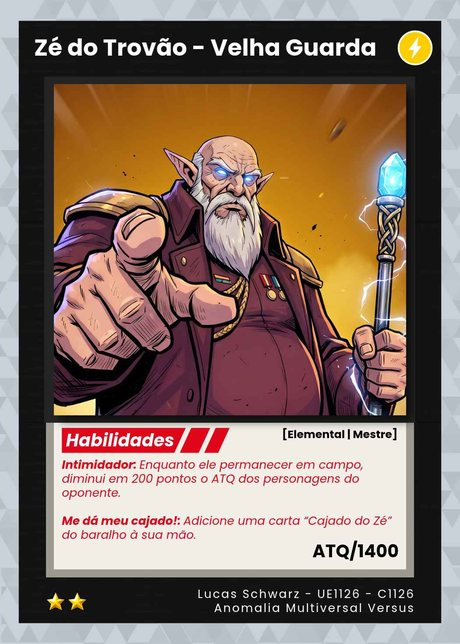
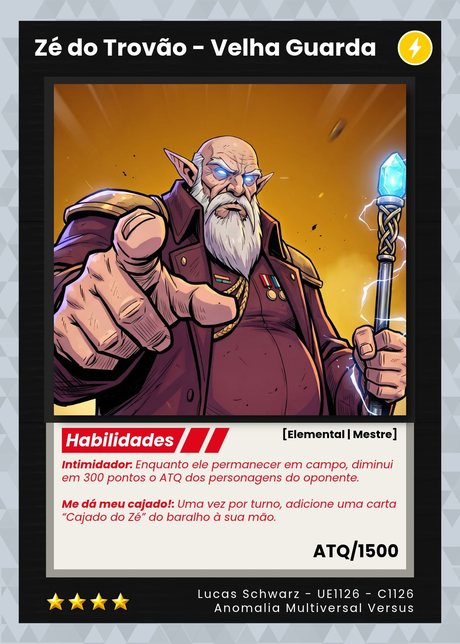
Cartas de fogo (Antares, Blaze Baller, Muhriqa, Napoleão, Tronco Queimado), cartas atualizadas, baralho de 15 a 20, favoritas recortam a própria carta
Claude-Session: https://claude.ai/code/session_01S6Ys4XVKyntY2oeGQp5bPk

Changed region(s): [[0.1217, 0.7143, 0.8522, 0.8696], [0.1826, 0.9006, 0.2739, 0.9627]]

diff --git a/AMV/index.html b/AMV/index.html
@@ -318,6 +318,7 @@ html,body{margin:0;height:100%;background:#050505;overflow:hidden;touch-action:m
 .fire{position:relative;font-style:normal;font-size:44px}.fire em{position:absolute;left:50%;top:58%;transform:translate(-50%,-50%);font-style:normal;font-size:20px;font-weight:900;color:#fff;text-shadow:0 0 4px #000,0 0 2px #000}
 .hfav{position:absolute;left:30px;top:156px;z-index:6;display:grid;grid-template-columns:repeat(3,100px);gap:15px}
 .hf{width:100px;height:100px;border-radius:18px;border:3px solid #fff;background:#000a center/cover;box-shadow:0 6px 16px #000a;cursor:pointer;display:flex;align-items:center;justify-content:center;font-size:48px;color:#fff8}
+.hf.artcrop{background-size:130.6% auto;background-position:50% 28.9%}
 .hf.empty{border-style:dashed;border-color:#fff8}
 .acc b{font-size:38px;white-space:nowrap;overflow:hidden;text-overflow:ellipsis}
 .acc small{display:block;font-size:26px;color:#ffd84d;font-weight:600}
@@ -556,13 +557,13 @@ html,body{margin:0;height:100%;background:#050505;overflow:hidden;touch-action:m
    CONFIGURAÇÃO (fácil de mexer quando suas regras chegarem)
    ============================================================ */
 const MAX_LIFE = 4000;     // vida inicial e máxima
-const DECK_MIN = 20, DECK_MAX = 30, COPY_MAX = 3;
+const DECK_MIN = 15, DECK_MAX = 20, COPY_MAX = 3;
 const HAND_START = 5;      // cartas iniciais
-const DEFAULT_DECK = {31:3,32:3,33:2,34:2,35:1,36:3,21:2,23:1,22:2,24:1,25:1,26:2,27:2,28:1,29:1,30:3};  // 30 cartas
+const DEFAULT_DECK = {31:3,32:3,36:3,33:1,34:1,35:1,26:2,27:2,30:2,29:1,28:1};  // 20 cartas
 const BOT_DECK = DEFAULT_DECK;   // baralho do bot
 
 const DEFS = {   // arquivos com nome, pasta Cartas
-  21:{id:21,name:'Zé do Trovão - Velha Guarda',kind:'char',atk:1400,arq:['Elemental','Mestre'],el:'raio',img:'Cartas/Zé do Trovão - Velha Guarda.jpg'},
+  21:{id:21,name:'Zé do Trovão - Velha Guarda',kind:'char',atk:1500,arq:['Elemental','Mestre'],el:'raio',img:'Cartas/Zé do Trovão - Velha Guarda.jpg'},
   22:{id:22,name:'Cajado do Zé',kind:'tool',img:'Cartas/Ferramenta - Cajado do Zé.jpg'},
   23:{id:23,name:'Sabrina',kind:'char',atk:1300,arq:['Controlador','Máquina'],el:'escuridao',fios:true,troca:true,img:'Cartas/Sabrina.jpg'},
   24:{id:24,name:'Fios invisíveis',kind:'item',img:'Cartas/Item - Fios invisíveis.jpg'},
@@ -574,22 +575,28 @@ const DEFS = {   // arquivos com nome, pasta Cartas
   30:{id:30,name:'Irmãos Ma Mei',kind:'item',img:'Cartas/Item - Irmãos Ma Mei.jpg'},
   31:{id:31,name:'Lee Ma Mei',kind:'char',atk:1400,arq:['Lutador'],el:'agua',img:'Cartas/Lee Ma Mei.jpg'},
   32:{id:32,name:'Mee Ma Mei',kind:'char',atk:1600,arq:['Elemental','Lutador'],el:'agua',img:'Cartas/Mee Ma Mei.jpg'},
-  33:{id:33,name:'Shifu Ma Mei',kind:'char',atk:1700,arq:['Lutador','Mestre'],el:'agua',dsl:true,img:'Cartas/Shifu Ma Mei.jpg'},
+  33:{id:33,name:'Shifu Ma Mei',kind:'char',atk:1800,arq:['Lutador','Mestre'],el:'agua',dsl:true,img:'Cartas/Shifu Ma Mei.jpg'},
   34:{id:34,name:'Shizu Ma Mei - Velha Guarda',kind:'char',atk:800,arq:['Elemental','Mestre'],el:'agua',dsl:true,img:'Cartas/Shizu Ma Mei - Velha Guarda.jpg'},
-  35:{id:35,name:'Taishizu Ma Mei',kind:'char',atk:2000,arq:['Mestre','Lenda'],el:'agua',dsl:true,dslzg:true,img:'Cartas/Taishizu Ma Mei.jpg'},
+  35:{id:35,name:'Taishizu Ma Mei',kind:'char',atk:2200,arq:['Mestre','Lenda'],el:'agua',dsl:true,dslzg:true,img:'Cartas/Taishizu Ma Mei.jpg'},
   36:{id:36,name:'Tee Ma Mei',kind:'char',atk:1300,arq:['Atirador'],el:'agua',img:'Cartas/Tee Ma Mei.jpg'},
-  37:{id:37,name:'Botão de Reset',kind:'char',atk:11000,arq:['Mestre'],el:'raio',first:true,direct:true,img:'Cartas/Botão de Reset.jpg'}
+  37:{id:37,name:'Botão de Reset',kind:'char',atk:11000,arq:['Mestre'],el:'raio',first:true,direct:true,img:'Cartas/Botão de Reset.jpg'},
+  38:{id:38,name:'Antares',kind:'char',atk:3000,arq:['Dragão','Lenda'],el:'fogo',img:'Cartas/Antares.jpg'},
+  39:{id:39,name:'Blaze Baller',kind:'char',atk:1400,arq:['Atirador'],el:'fogo',img:'Cartas/Blaze Baller.jpg'},
+  40:{id:40,name:'Muhriqa - Velha Guarda',kind:'char',atk:1500,arq:['Elemental','Mestre'],el:'fogo',img:'Cartas/Muhriqa - Velha Guarda.jpg'},
+  41:{id:41,name:'Napoleão',kind:'char',atk:1300,arq:['Besta','Líder'],el:'fogo',img:'Cartas/Napoleão.jpg'},
+  42:{id:42,name:'Tronco Queimado',kind:'char',atk:1800,arq:['Planta'],el:'fogo',img:'Cartas/Tronco Queimado.jpg'}
 };
 /* estrelas: 1 a 3 = até 3 cópias, 4 = 1 cópia, 5 = só 1 carta de 5 estrelas no baralho inteiro */
-const STARS={1:2,2:1,3:1,4:2,5:1,6:1,7:2,8:2,9:2,10:1,11:2,12:2,13:3,14:4,15:3,16:3,17:3,18:3,19:3,20:2,21:2,22:3,23:3,24:2,25:4,26:2,27:2,28:4,29:4,30:3,37:5,31:1,32:2,33:3,34:3,35:5,36:2};
+const STARS={1:2,2:1,3:1,4:2,5:1,6:1,7:2,8:2,9:2,10:1,11:2,12:2,13:3,14:4,15:3,16:3,17:3,18:3,19:3,20:2,21:4,22:3,23:4,24:2,25:4,26:2,27:2,28:4,29:4,30:3,37:5,31:1,32:2,33:4,34:4,35:5,36:2,38:5,39:2,40:4,41:3,42:1};   // estrelas = as da carta (não dependem do número de habilidades)
 const maxCopies=id=>{ const st=STARS[id]||1; return st>=4?1:3; };
 const isMaMei=c=>/Ma Mei/.test(c.def.name);
-const DS={31:200,32:300,33:500,36:100};                         // Duplo Sentido (valor fixo)
+const DS={31:100,32:200,33:300,36:100};                         // Duplo Sentido (valor fixo)
 const DS_MASTER=new Set([34,35]);                               // Mestre do Duplo Sentido (metade do ATQ do alvo)
 function clashVals(p, att, q, tgt){                              // ATQ de batalha [atacante, defensor]
   let a=atkOf(p,att), d=atkOf(q,tgt);
   if(att.id===5) a+=300;                                        // Tenshinhan - Kikoho
   if(tgt.id===7) d=Math.max(0,d-300);                           // Yamcha - Autodestruição
+  if(tgt.id===38) a=Math.max(0,a-500);                          // Antares - Magma vivo: quem ataca perde 500 na fase de dano
   const ds = DS_MASTER.has(att.id) ? Math.floor(d/2) : (DS[att.id]||0);
   return [a+ds, Math.max(0,d-ds)];
 }
@@ -722,10 +729,10 @@ const SCENARIOS=['Cenários/Cenário - Batalha contra os saiyajins.jpg','Cenári
 /* todas as artes são JPG leves: carregadas e decodificadas antes de entrar na tela */
 const KEEP=[];
 function preload(src, onfail){ const im=new Image(); im.decoding='async'; im.onload=()=>{ (im.decode?im.decode():Promise.resolve()).catch(()=>{}); }; if(onfail) im.onerror=onfail; im.src=src; KEEP.push(im); return im; }
-const APP_VER='20261124-022705';                                        // muda a cada versão publicada (igual ao version.json)
+const APP_VER='20261124-160059';                                        // muda a cada versão publicada (igual ao version.json)
 const vq=u=>u+(u.includes('?')?'&':'?')+'v='+APP_VER;           // imagens com a versão: carta re-exportada não fica presa no cache
 const miniPath=u=>u.replace('Cartas/','Cartas/Mini/');           // versão leve (460 px) para o campo e a mão: menos memória no celular
-for(const k in DEFS){ const d=DEFS[k]; d.art=vq('Artes/Mini/'+d.img.split('/').pop()); d.mini=vq(miniPath(d.img)); d.img=vq(d.img); preload(d.mini); }
+for(const k in DEFS){ const d=DEFS[k]; d.mini=vq(miniPath(d.img)); d.img=vq(d.img); preload(d.mini); }
 SCENARIOS.forEach((f,i)=>{ SCENARIOS[i]=vq(f); });
 const SCEN_IMG={}; SCENARIOS.forEach(f=>{ SCEN_IMG[f]=preload(f); });
 const mini=inst=>(inst.def||inst).mini;
@@ -753,7 +760,7 @@ function newPlayer(counts){
   return {life:MAX_LIFE, deck:shuffle(ids.map(mk)), hand:[], chars:[null,null,null], powers:[null,null,null], field:null, void:[], turns:0, esf:false};
 }
 function atkOf(p, inst){
-  const intim = 200 * P(1-p).chars.filter(c=>c&&c.id===21).length;               // Zé do Trovão (Intimidador): -200 nos Personagens do oponente
+  const intim = 300 * P(1-p).chars.filter(c=>c&&c.id===21).length;               // Zé do Trovão (Intimidador): -300 nos Personagens do oponente
   if(inst.tmp!=null) return Math.max(0, inst.tmp - intim);                       // Autoescola: ATQ final até o fim do turno
   let a;
   {
@@ -761,6 +768,7 @@ function atkOf(p, inst){
     const v = P(p).void;
     if(inst.id===1) a += 100 * v.filter(c=>c.def.kind==='char'&&isGZ(c)).length; // Goku: +100 por Guerreiro Z no vazio
     if(inst.id===2) a += 600 * v.filter(c=>c.id===3).length;                     // Gohan: +600 por Piccolo no vazio
+    if(inst.id===42) a += 100 * ownPl(inst,P(p)).void.filter(c=>/Tronco/.test(c.def.name)).length;   // Tronco Queimado: +100 por "Tronco" no vazio do dono
   }
   a += 400 * inst.equips.length;                                                 // Kaioken: +400 cada (pode ter vários)
   a += inst.boost||0;                                                            // Kaioken aumentado 4x: +1000 até o fim do turno
@@ -832,6 +840,34 @@ const A = {
         if(ok){ render(); await activateFx(p,c,true); await deckToField(p,lee,freeIdx(pl.chars)); shuffle(pl.deck); log(`Gêmeos Ma Mei! ${p?'Oponente invoca':'Você invoca'} Lee Ma Mei do baralho.`); render(); }
       }
     }
+    if(c.id===38){  // Antares - Virem Cinzas: destrói o Personagem da coluna da frente e depois os seus outros Personagens
+      const i=pl.chars.indexOf(c), t=P(1-p).chars[i];
+      if(t){
+        let ok;
+        if(p===0||NET){ render(); const r=await pickTarget([t],{prompt:`Virem Cinzas: tocar em ${t.def.name.split(' - ')[0]} para destruir (seus outros Personagens também serão destruídos). Toque fora para recusar.`}); ok=!!r; }
+        else { const mine=chars(p).filter(x=>x!==c); ok = atkOf(1-p,t) >= mine.reduce((s,x)=>s+atkOf(p,x),0); }
+        if(ok){ render(); await activateFx(p,c,true); log(`Virem Cinzas! ${t.def.name} é destruído.`); await sendVoid(1-p,t);
+          for(const m of chars(p).filter(x=>x!==c)){ await sendVoid(p,m); } log(`Antares destrói ${p?'os outros Personagens do oponente':'os seus outros Personagens'}.`); render(); }
+      }
+    }
+    if(c.id===40){  // Muhriqa - Venham, seus velhos: pode invocar 1 "Velha Guarda" da mão
+      const vg=pl.hand.filter(x=>x.def.kind==='char' && /Velha Guarda/.test(x.def.name));
+      if(vg.length && freeIdx(pl.chars)>=0){
+        let pick=null;
+        if(p===0||NET){ render(); pick=await chooseFromList('Venham, seus velhos: invocar 1 "Velha Guarda" da mão? (feche para recusar)',vg); }
+        else pick=vg.sort((a,b)=>b.def.atk-a.def.atk)[0];
+        if(pick){ render(); await activateFx(p,c,true); log('Venham, seus velhos!'); await A.summon(p,pick); render(); }
+      }
+    }
+    if(c.id===41){  // Napoleão - Façam o que eu mando!: pode buscar 1 carta "Napoleão" do baralho
+      const ns=pl.deck.filter(x=>/Napoleão/.test(x.def.name));
+      if(ns.length){
+        let pick=null;
+        if(p===0||NET){ render(); pick=await chooseFromList('Façam o que eu mando!: adicionar uma carta "Napoleão" do baralho à mão? (feche para recusar)',ns); }
+        else pick=ns[0];
+        if(pick){ render(); await activateFx(p,c,true); await toHand(p,pick); shuffle(pl.deck); log(`Façam o que eu mando! ${p?'Oponente busca':'Você busca'} ${pick.def.name}.`); render(); }
+      }
+    }
     if(c.id===23){  // Sabrina - Marionete Humana: pode tomar o controle do personagem da coluna da frente
       const i=pl.chars.indexOf(c), t=P(1-p).chars[i], fi=freeIdx(pl.chars);
       if(t && fi>=0){
@@ -859,6 +895,9 @@ const A = {
   support(p, c, slot){ const pl=P(p); detach(pl,c); pl.powers[(slot!=null&&!pl.powers[slot])?slot:freeIdx(pl.powers)]=c; log(`${p?'Oponente coloca':'Você coloca'} ${c.def.name} em campo.`); },
   async bulma(p, c){ const pl=P(p); c.used=true; const r=pl.deck.find(x=>x.id===13); await toHand(p,r); shuffle(pl.deck); log(`${p?'Oponente usa':'Você usa'} a Bulma e busca o Radar do dragão.`); },
   tool(p, c, goku){ const pl=P(p); detach(pl,c); c.equipTo=goku; goku.equips.push(c); log(`${p?'Oponente equipa':'Você equipa'} ${c.def.name} em ${goku.def.name.split(' - ')[0]} (+400 ATQ).`); },
+  async dmgFx(p, c, n, name){ c.used=true; await activateFx(p,c,true); log(`${name} ${p?'Você recebe':'O oponente recebe'} ${n} de dano.`); await damage(1-p, n); },
+  async muhriqa(p, c){ const q=1-p, h=P(q).hand; c.used=true; if(!h.length) return; await activateFx(p,c,true);
+    const t=h[Math.floor(RNGF()*h.length)]; toVoid(P(q),t); render(); log(`Maldição da chama! ${p?'Uma carta da sua mão':'Uma carta da mão do oponente'} (${t.def.name}) vai para o vazio.`); },
   async ze(p, ze, cj){ const pl=P(p); ze.used=true; await activateFx(p,ze,true); await toHand(p,cj); shuffle(pl.deck); log(`${p?'Oponente usa':'Você usa'} "Me dá meu cajado" e busca o Cajado do Zé.`); },
   async semente(p, c){ const pl=P(p); const v=500*chars(p).filter(isGZ).length; toVoid(pl,c); render(); log(`${p?'Oponente cura':'Você cura'} ${v} de vida.`); await lifeFx(p, v, ()=>{ pl.life+=v; }); },
   async disparo(p, c, t){ toVoid(P(p),c); render(); await sendVoid(1-p,t); log(`Disparo de Ki destrói ${t.def.name}!`); },
@@ -1398,6 +1437,9 @@ function actionsFor(p, inst, where){
           });
       }
     }
+    if(inst.id===39) add('Efeito: Segura aí!', inst.used?'Já usado neste turno.':null, async()=>await A.dmgFx(p,inst,400,'Segura aí!'));
+    if(inst.id===41){ const n=chars(1-p).length; add('Efeito: Super Esferas Flamejantes', inst.used?'Já usado neste turno.':(n?null:'O oponente não tem Personagens em campo.'), async()=>await A.dmgFx(p,inst,300*chars(1-p).length,'Super Esferas Flamejantes do Todo Poderoso Napoleão!')); }
+    if(inst.id===40) add('Efeito: Maldição da chama', inst.used?'Já usado neste turno.':(P(1-p).hand.length?null:'O oponente não tem cartas na mão.'), async()=>await A.muhriqa(p,inst));
     if(inst.id===21) add('Efeito: Me dá meu cajado', inst.used?'Já usado neste turno.':(pl.deck.some(x=>x.id===22)?null:'Não há "Cajado do Zé" no baralho.'), async()=>await A.ze(p,inst,pl.deck.find(x=>x.id===22)));
     if(inst.id===35) add('Efeito: Venha! Da Shui Long', inst.used?'Já usado neste turno.':(pl.deck.some(isDSL)?null:'Não há cartas "Da Shui Long" no baralho.'), async()=>{
       const r=await chooseFromList('Escolha uma carta "Da Shui Long" do baralho',pl.deck.filter(isDSL)); if(!r) return;
@@ -2216,6 +2258,11 @@ async function botTurn(){
   // 7) Disparo de Ki
   c=hand(12);
   if(c && chars(p).length && supports(q).length){ await A.disparo(p,c,supports(q)[0]); if(!await pause(900)) return; }
+  // 7b) efeitos de fogo: Blaze Baller, Napoleão, Muhriqa
+  for(const x of chars(p)){ if(G.over) return;
+    if(x.id===39 && !x.used){ await A.dmgFx(p,x,400,'Segura aí!'); if(G.over||!await pause(800)) return; }
+    if(x.id===41 && !x.used && chars(q).length){ await A.dmgFx(p,x,300*chars(q).length,'Super Esferas Flamejantes do Todo Poderoso Napoleão!'); if(G.over||!await pause(800)) return; }
+    if(x.id===40 && !x.used && P(q).hand.length){ await A.muhriqa(p,x); if(!await pause(800)) return; } }
   // 8) Zé do Trovão: busca e equipa o Cajado
   const zz=chars(p).find(x=>x.id===21&&!x.used);
   if(zz && !hand(22) && pl.deck.some(x=>x.id===22)){ await A.ze(p,zz,pl.deck.find(x=>x.id===22)); if(!await pause(800)) return; }
@@ -2454,7 +2501,7 @@ function accChip(){
   const sk=myStreak(); if(sk>=2){ fs=el('div','streak',`<span>🔥</span><b>${sk}</b>`); fs.title=`${sk} vitórias seguidas: +${streakPct(sk)}% de XP e ouro`; fs.onclick=()=>toast(`🔥 ${sk} vitórias seguidas: +${streakPct(sk)}% de XP e Ouro`); home.appendChild(fs); }
   let fv=home.querySelector('.hfav'); if(fv) fv.remove();
   if(ACC.user && ACC.profile && ACC.profile.nickname){ fv=el('div','hfav'); const F=favs();
-    for(let i=0;i<3;i++){ const d=DEFS[F[i]]; const c=el('div','hf'+(d?'':' empty'), d?'':'+'); if(d) c.style.backgroundImage=`url("${d.art}")`;
+    for(let i=0;i<3;i++){ const d=DEFS[F[i]]; const c=el('div','hf'+(d?'':' empty'), d?'':'+'); if(d){ c.style.backgroundImage=`url("${d.mini}")`; c.classList.add('artcrop'); }
       c.onclick=()=>d?cardModalView(d,()=>accChip()):profileModal(); fv.appendChild(c); }
     home.appendChild(fv); }
   let e=home.querySelector('.evt'); if(e) e.remove();
